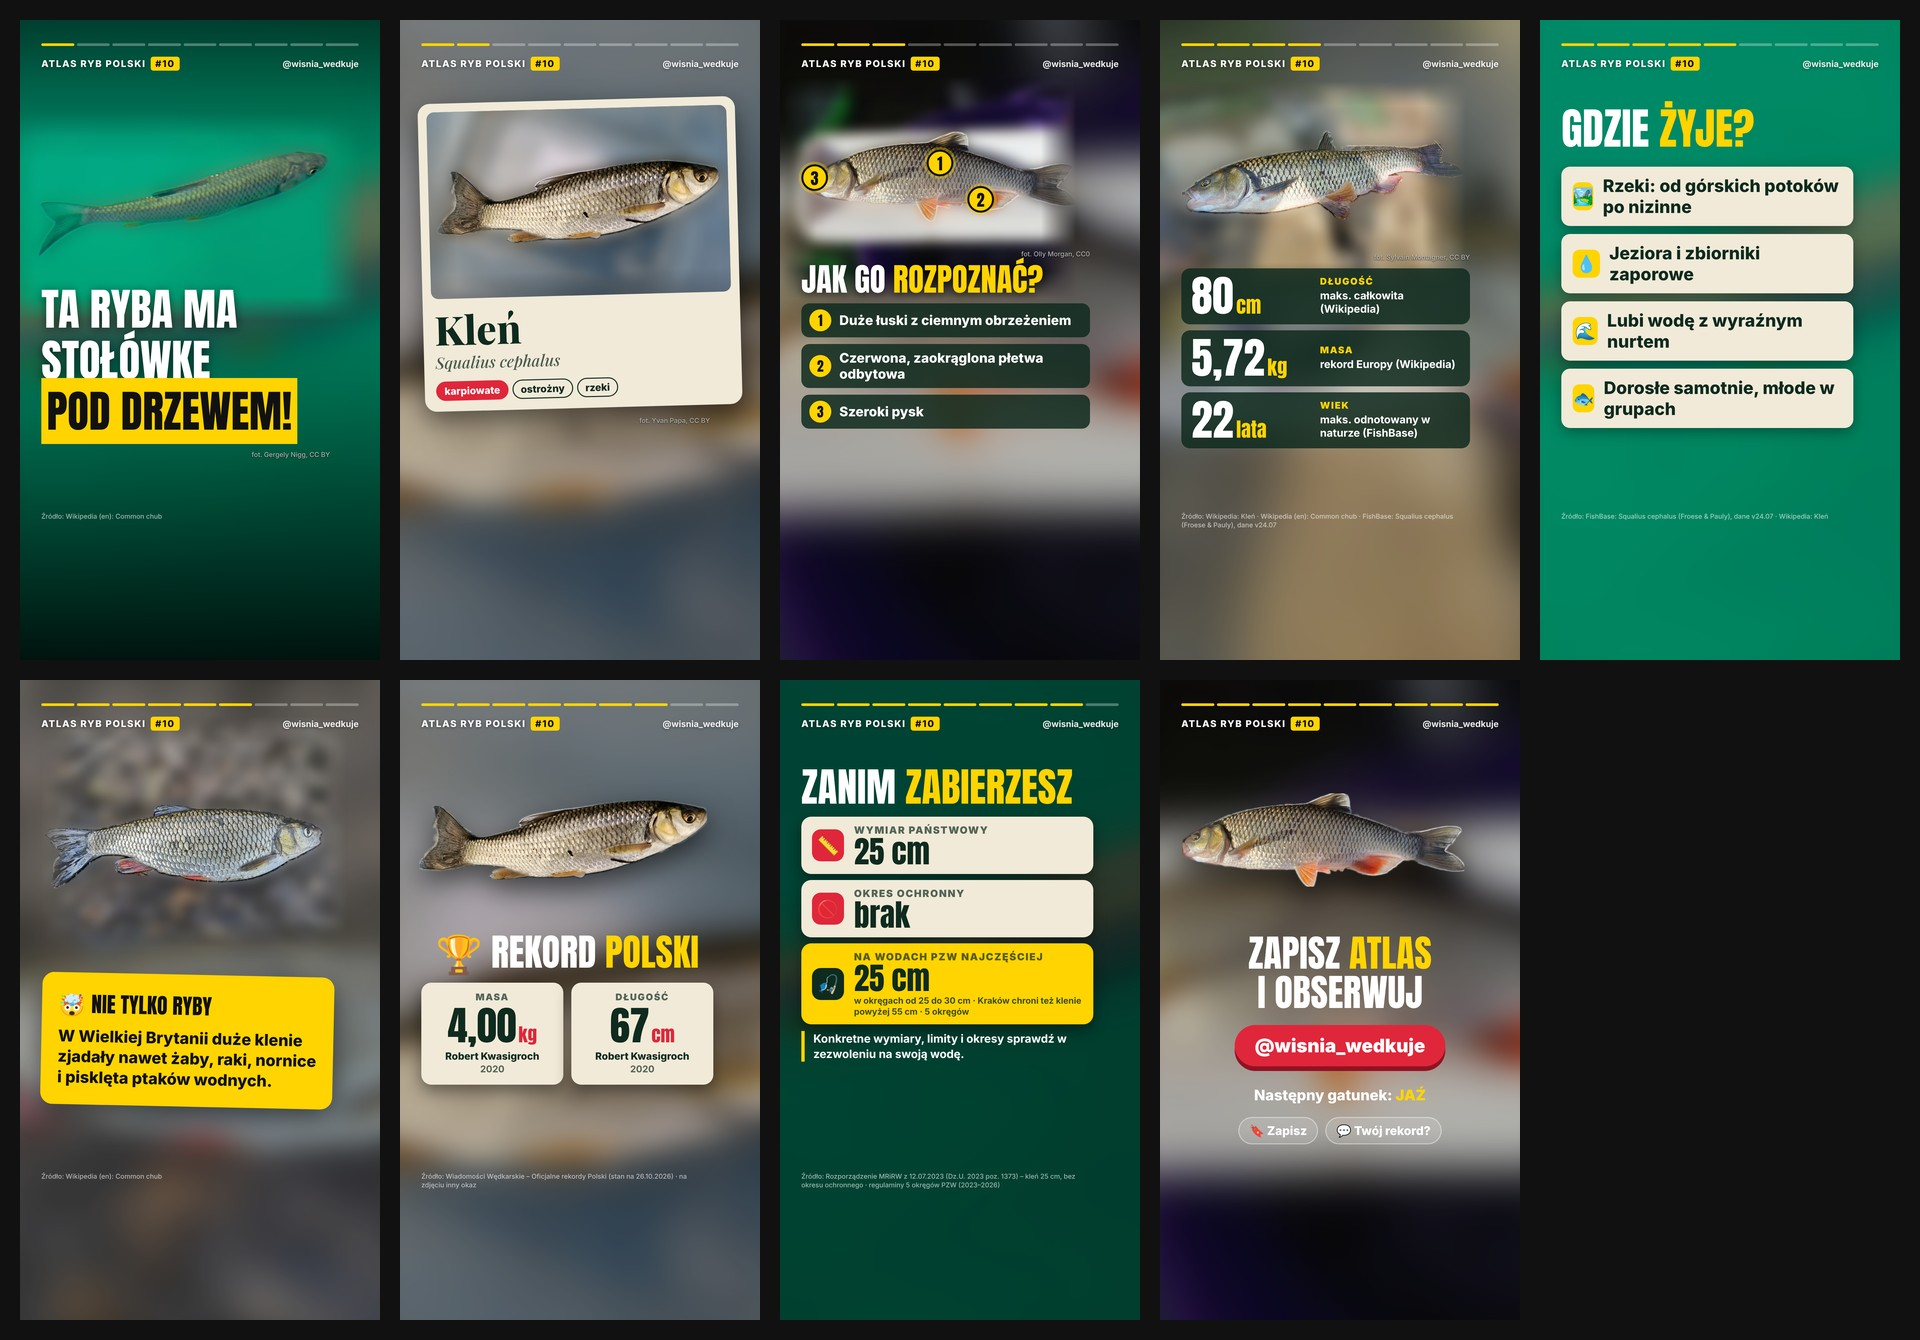
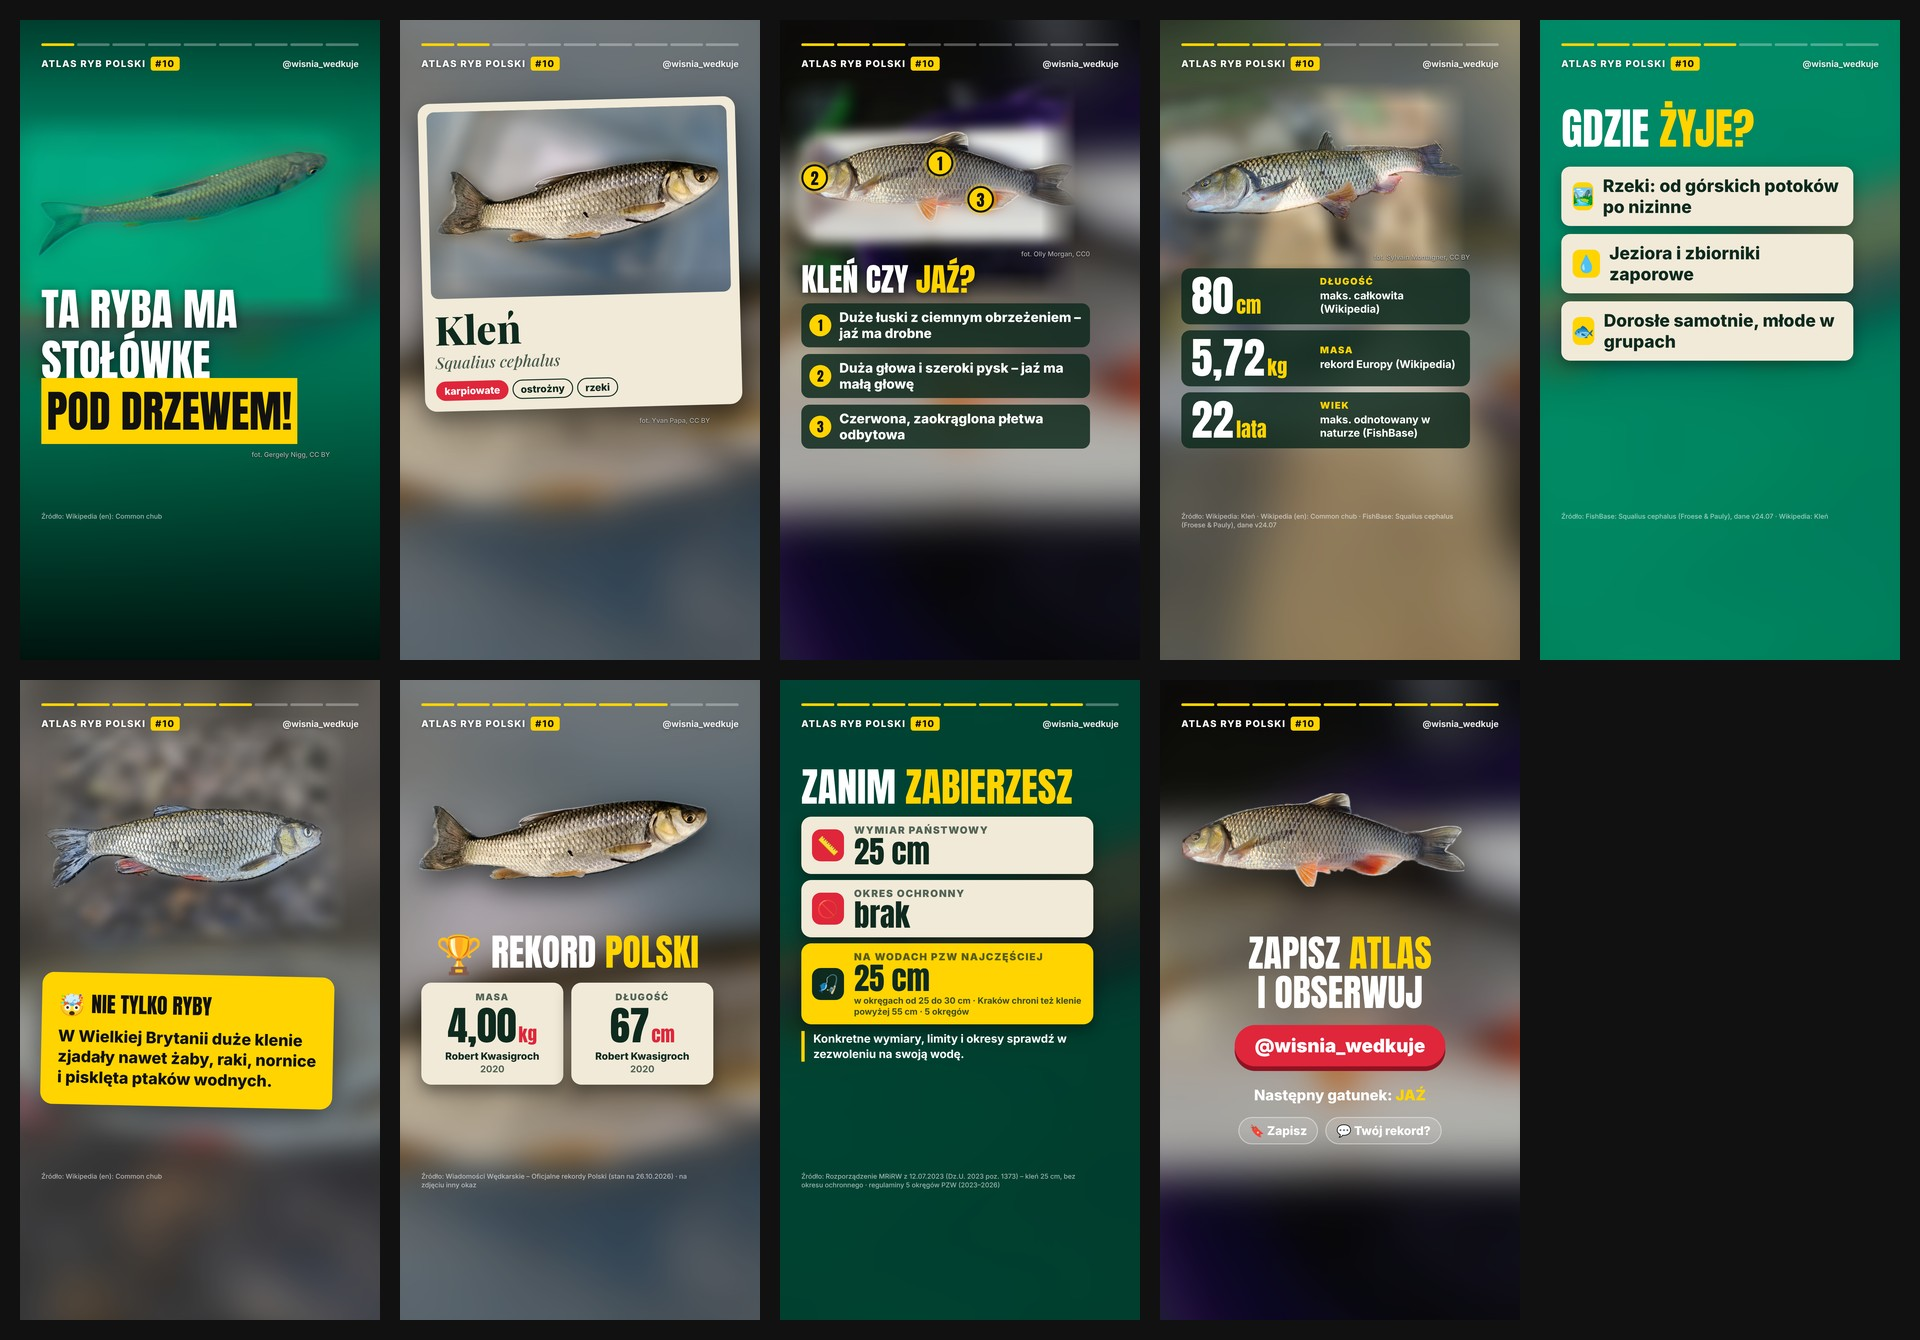
Kleń 10: scena 3 „Kleń czy jaź?” – jak odróżnić; opcjonalny tytuł sceny rozpoznania
Claude-Session: https://claude.ai/code/session_01P9R5v2yPFHwMJVw1yZXoPw

Changed region(s): [[0.4062, 0.1836, 0.5625, 0.3366], [0.8125, 0.2142, 0.9688, 0.3366]]

diff --git a/atlas/sceny.js b/atlas/sceny.js
@@ -66,7 +66,7 @@ window.zbudujSceny = function () {
         <div class="tags">${G.tagi.map((t, i) => `<span class="tag" data-a="pop" data-d="${0.5 + i * 0.25}">${t}</span>`).join('')}</div></div>${fot('karta', 1190)}`,
     // 3. rozpoznanie – cała ryba z boku, kropki na cechach
     () => `${ryba('rozpoznanie', { ...SZER, y: 240, h: 460 }, { punkty: G.rozpoznanie.map(r => r.px), przy: przyRozp, margines: 0.06 })}${pasek(2)}
-      <h2 class="tytul" style="top:730px" data-a="lewo" data-d="0">Jak go <span>rozpoznać?</span></h2>
+      <h2 class="tytul" style="top:730px" data-a="lewo" data-d="0">${G.rozpoznanie_tytul || 'Jak go <span>rozpoznać?</span>'}</h2>
       <ol class="lista" style="top:850px">${G.rozpoznanie.map((r, i) => `<li data-a="lewo" ${r.przy ? `data-przy="${r.przy}"` : `data-d="${0.3 + i * 0.4}"`}><span class="n">${i + 1}</span><span>${r.tekst}</span></li>`).join('')}</ol>
       ${fot('rozpoznanie', 690)}`,
     // 4. rozmiary

diff --git a/atlas/scenariusze/klen.md b/atlas/scenariusze/klen.md
@@ -1,6 +1,6 @@
 # Atlas Ryb Polski 10 – Kleń (scenariusz lektora)
 
-Głos: ElevenLabs „JA Paweł” (`bHIh6fgsLVytKSOdaWBi`), model eleven_v4, jeden wariant. 193 słowa.
+Głos: ElevenLabs „JA Paweł” (`bHIh6fgsLVytKSOdaWBi`), model eleven_v4, jeden wariant. 208 słów.
 
 Hook (pomysł użytkownika, dopracowany pluginem hook-writer; nazwa gatunku pada dopiero w scenie 2):
 1. „Ta ryba ma stołówkę pod drzewem!” – **wybrany**: klenie zjadają owoce spadające z gałęzi nad wodą (jeżyny, czarny bez) – Wikipedia (en), przypis Fish-UK.
@@ -11,9 +11,9 @@ Hook (pomysł użytkownika, dopracowany pluginem hook-writer; nazwa gatunku pada
 |---|---|---|---|
 | 1 | Hook | Ma stołówkę pod drzewem: zjada owoce spadające z gałęzi do wody, np. jeżyny i owoce czarnego bzu. | wiki_en („observed eating berries such as blackberries and elderberry from trees overhanging the water”, przypis Fish-UK) |
 | 2 | Karta | To kleń, z rodziny karpiowatych; duże klenie są bardzo ostrożne, płoszy je hałas i ruch na brzegu. | wiki_en („As they become larger, however, chub become more wary and are easily spooked by noise or visual disturbance”), wiki_pl („czujność”) |
-| 3 | Rozpoznanie | Duże łuski z ciemnym obrzeżeniem, czerwona zaokrąglona płetwa odbytowa, szeroki pysk. | wiki_pl |
+| 3 | Kleń czy jaź? | Podobny do jazia, ale łatwo odróżnić: kleń ma duże łuski z ciemnym obrzeżeniem (jaź drobne), dużą głowę i szeroki pysk (jaź małą głowę), czerwoną zaokrągloną płetwę odbytową. | wiki_pl Kleń („Dzięki temu charakterystycznemu ułuszczeniu łatwo go odróżnić od jazia i jelca”, 44–46 łusek w linii bocznej), wiki_pl Jaź („pokryte małymi łuskami”, „Głowa mała”, 55–61 łusek), wiki_en („large rounded head”) |
 | 4 | Rozmiary | Do 80 cm; rekord Europy 5,72 kg; do 22 lat w naturze. | wiki_pl („maksymalnie dorasta do 80 cm”), wiki_en („64–82 cm”; rekord Europy 5,72 kg za Fishing World Records), fishbase + wiki_en (22 lata) |
-| 5 | Występowanie | Rzeki od górskich potoków po nizinne, jeziora i zbiorniki zaporowe, wyraźny nurt; dorosłe samotnie, młode w grupach. | fishbase, wiki_pl |
+| 5 | Występowanie | Rzeki od górskich potoków po nizinne, jeziora i zbiorniki zaporowe; dorosłe samotnie, młode w grupach. | fishbase, wiki_pl |
 | 6 | Ciekawostka | W Wielkiej Brytanii duże klenie zjadały nawet żaby, raki, nornice i pisklęta ptaków wodnych. | wiki_en („frogs, crayfish, voles and young water birds”, przypis Fish-UK) |
 | 7 | Rekord Polski | 4,00 kg i 67 cm – Robert Kwasigroch, 2020. | ww |
 | 8 | Przepisy | Państwowo 25 cm, bez okresu. PZW: najczęściej 25 cm (25–30 cm); Kraków chroni też klenie > 55 cm. | rozp2023, `data/przepisy_pzw.json` (Gdańsk, Kraków, Radom, Zielona Góra, Wałbrzych) |
@@ -23,6 +23,7 @@ Hook (pomysł użytkownika, dopracowany pluginem hook-writer; nazwa gatunku pada
 
 - **fishbase**: FishBase, *Squalius cephalus* (SpecCode 4482), dane v24.07: maks. 60 cm SL, 8000 g, wiek 22 lata; „Adults are solitary while juveniles occur in groups”, „Large individuals prey predominantly on fishes”, „even in very small mountain streams”.
 - **wiki_pl**: Wikipedia, Kleń. https://pl.wikipedia.org/wiki/Kle%C5%84
+- **wiki_pl_jaz**: Wikipedia, Jaź. https://pl.wikipedia.org/wiki/Ja%C5%BA
 - **wiki_en**: Wikipedia (en), Common chub (Squalius cephalus). https://en.wikipedia.org/wiki/Squalius_cephalus
 - **ww**: Wiadomości Wędkarskie, Oficjalne rekordy Polski: 4,00 kg i 67,0 cm, Robert Kwasigroch, 2020.
 - **rozp2023**: Dz.U. 2023 poz. 1373 – „klenia (Squalius cephalus L.) - 25 cm”; kleń nie występuje w liście okresów ochronnych.
@@ -37,3 +38,4 @@ Hook (pomysł użytkownika, dopracowany pluginem hook-writer; nazwa gatunku pada
 - **„Tarło odbywa się w samo południe”** (Wikipedia, bez przypisu): ciekawe, ale niepewne.
 - **Fragmenty Wikipedii o „subtelnych różnicach budowy” i smaku mięsa**: bez przypisów, styl niencyklopedyczny.
 - **Płodne krzyżówki z ukleją** (FishBase): pominięte, bo podobny wątek był w odcinku o płoci.
+- **„Lubi wodę z wyraźnym nurtem”**: usunięte, żeby po dodaniu porównania z jaziem zmieścić się w 80 s.
